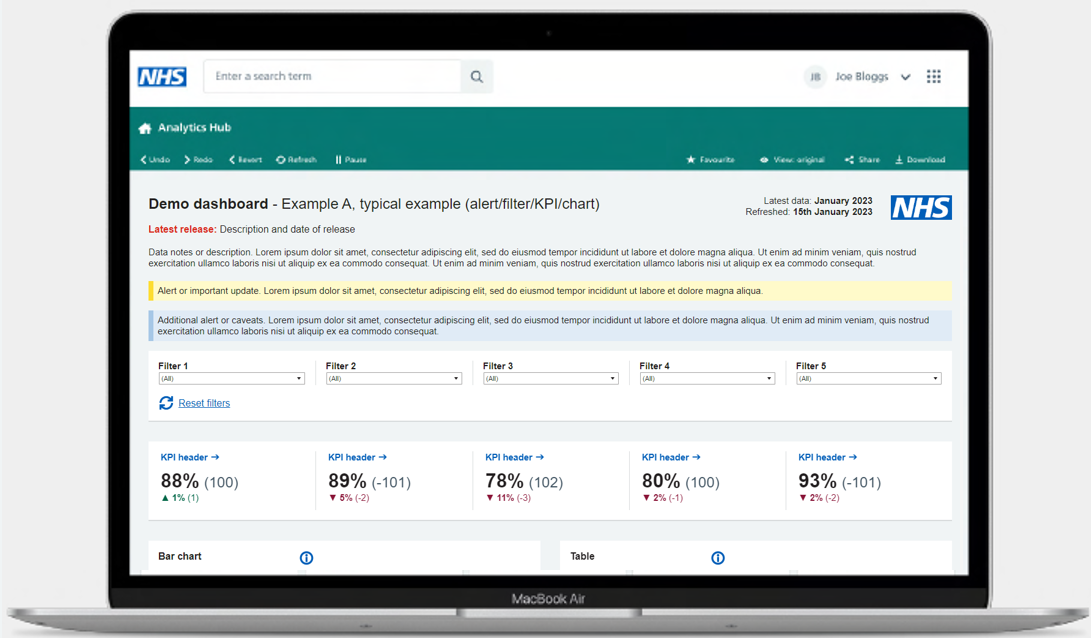
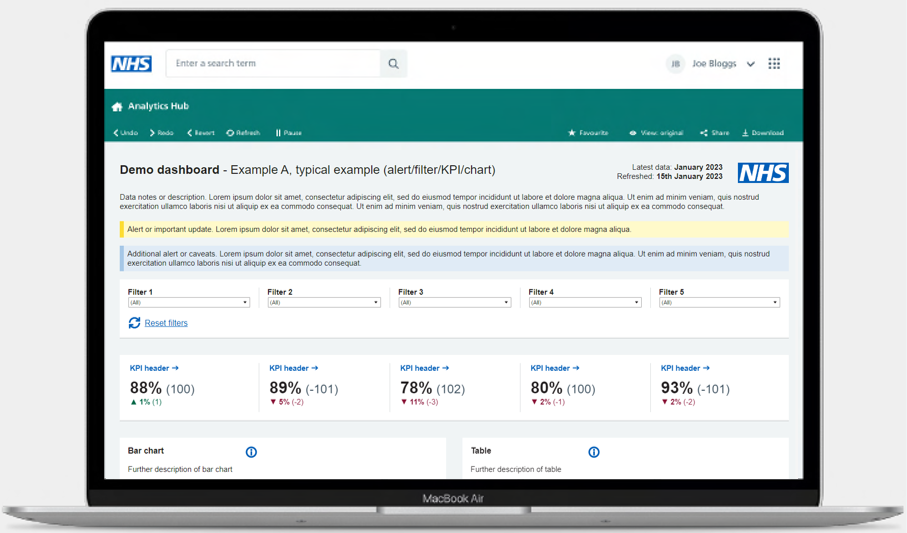
Image updates and typograhpy table changes

Changed region(s): [[0.0, 0.0, 1.0, 1.0]]

diff --git a/overrides/home.html b/overrides/home.html
@@ -170,7 +170,7 @@
       <div class="hero-image">
         <img
           id="hero-img"
-          src="images/nhs-tableau-templates.png"
+          src="images/NHS_tableau_templates.png"
           draggable="false"
         />
       </div>

diff --git a/docs/dashboard_design/quick_summary.md b/docs/dashboard_design/quick_summary.md
@@ -35,7 +35,7 @@ Always place the NHS logo in the top right hand corner of your dashboard with a 
 
 For more information on how to implement the NHS logo in your dashboard, [click here](icons.md#nhs-logo).
 
-![NHS Logo](../../images/NHS_logo.png){ data-title="NHS logo" data-description=".custom-desc1" data-caption-position="left" data-gallery="icons"}
+![NHS Logo](images/NHS_logo.png){ data-title="NHS logo" data-description=".custom-desc1" data-caption-position="left" data-gallery="icons"}
 <div class="glightbox-desc custom-desc1">
 NHS Logo as shown in the NHS England dashboard templates
 </div>
@@ -52,7 +52,7 @@ For more information on what to include in your dashboard header, [click here](l
 
 ## Cover page or About page
 
-![About page](images/templates-about-page.png){ data-title="About page" data-description=".custom-desc1" data-caption-position="left" data-gallery="templates"}
+![About page](images/templates_about_page.png){ data-title="About page" data-description=".custom-desc1" data-caption-position="left" data-gallery="templates"}
 <div class="glightbox-desc custom-desc1">
 Screenshot of the About page from the NHS England Tableau Templates
 </div>
@@ -77,10 +77,11 @@ Here is a summary of the most important dashboard objects and their font specifi
 
 | **Objects**                  | **Font** | **Weight** | **Size**    | **Colour**     | **HEX**      | **Alignment** |
 |------------------------------|----------|------------|-------------|----------------|--------------|---------------|
-| Dashboard title              | Arial    | Bold       | 24px / 18pt | NHS Black      | <span class="inline-container-pill" style="--colour: #212B32; background-color: white"><span class="inline-colour-square" style="--colour: #212B32; height: 15px; width: 15px""></span>#212B32</span>       | Left          |
-| Chart heading / Card heading                | Arial    | Bold       | 16px / 12pt | NHS Black      | <span class="inline-container-pill" style="--colour: #212B32; background-color: white"><span class="inline-colour-square" style="--colour: #212B32; height: 15px; width: 15px""></span>#212B32</span>       | Left          |
-| Filter title                 | Arial    | Regular    | 15px / 11pt | NHS Grey 1     | <span class="inline-container-pill" style="--colour: #4C6272; background-color: white"><span class="inline-colour-square" style="--colour: #4C6272; height: 15px; width: 15px"></span>#4C6272</span>       | Left          |
-| Description / Paragraph      | Arial    | Regular    | 15px / 11pt | NHS Grey 1     | <span class="inline-container-pill" style="--colour: #4C6272; background-color: white"><span class="inline-colour-square" style="--colour: #4C6272; height: 15px; width: 15px""></span>#4C6272</span>       | Left          |
+| Dashboard title              | Arial    | Bold       | 18pt / 24px | NHS Black      | <span class="inline-container-pill" style="--colour: #212B32; background-color: white"><span class="inline-colour-square" style="--colour: #212B32; height: 15px; width: 15px""></span>#212B32</span>       | Left          |
+| Chart / card heading                | Arial    | Bold       | 12pt / 16px | NHS Black      | <span class="inline-container-pill" style="--colour: #212B32; background-color: white"><span class="inline-colour-square" style="--colour: #212B32; height: 15px; width: 15px""></span>#212B32</span>       | Left          |
+| Filter title                 | Arial    | Bold    | 11pt / 15px | NHS Black     | <span class="inline-container-pill" style="--colour: #212B32; background-color: white"><span class="inline-colour-square" style="--colour: #212B32; height: 15px; width: 15px"></span>#212B32</span>       | Left          |
+| Description / paragraph      | Arial    | Regular    | 11pt / 15px | NHS Black     | <span class="inline-container-pill" style="--colour: #212B32; background-color: white"><span class="inline-colour-square" style="--colour: #212B32; height: 15px; width: 15px""></span>#212B32</span>       | Left          |
+
 
 To see the full font specification, please [click here](typography.md#font-specification).
 

diff --git a/docs/dashboard_design/typography.md b/docs/dashboard_design/typography.md
@@ -110,16 +110,17 @@ Here is a summary of the most important dashboard objects and their font specifi
 
 
 
+
 ### Tables
 
 ![Tables](images/typography_tables.png "Typography for tables")
 
-| **Objects**                  | **Font** | **Weight** | **Size**    | **Colour**     | **HEX**      | **Alignment** |
+| **Objects**                  | <div align="right">**Font**</div>  | <div align="right">**Weight**</div>  | <div align="right">**Size**</div>     | <div align="right">**Colour**</div>     | <div align="right">**HEX**</div>      | <div align="right">**Alignment**</div>|
 |------------------------------|----------|------------|-------------|----------------|--------------|---------------|
 | Heading                | Arial    | Bold       | 12pt / 16px  | NHS Black      | <span class="inline-container-pill" style="--colour: #212B32; background-color: white"><span class="inline-colour-square" style="--colour: #212B32; height: 15px; width: 15px""></span>#212B32</span>       | Left          |
 | Description            | Arial    | Regular    | 11pt / 15px | NHS Black     | <span class="inline-container-pill" style="--colour: #212B32; background-color: white"><span class="inline-colour-square" style="--colour: #212B32; height: 15px; width: 15px"></span>#212B32</span>       | Left          |
-| Column heading         | Arial    | Bold       | 11pt / 15px | NHS Black     | <span class="inline-container-pill" style="--colour: #212B32; background-color: white"><span class="inline-colour-square" style="--colour: #212B32; height: 15px; width: 15px"></span>#212B32</span>       | Left          |
-| Column sub-heading     | Arial    | Bold       | 11pt / 15px  | NHS Black     | <span class="inline-container-pill" style="--colour: #212B32; background-color: white"><span class="inline-colour-square" style="--colour: #212B32; height: 15px; width: 15px"></span>#212B32</span>       | Left          |
+| Column heading         | Arial    | Bold       | 11pt / 15px | NHS Black     | <span class="inline-container-pill" style="--colour: #212B32; background-color: white"><span class="inline-colour-square" style="--colour: #212B32; height: 15px; width: 15px"></span>#212B32</span>       | Right (the exception being the first column category title which is left aligned)          |
+| Column sub-heading     | Arial    | Bold       | 11pt / 15px  | NHS Black     | <span class="inline-container-pill" style="--colour: #212B32; background-color: white"><span class="inline-colour-square" style="--colour: #212B32; height: 15px; width: 15px"></span>#212B32</span>       | Right (the exception being the first column category title which is left aligned          |
 | Row heading            | Arial    | Bold       | 11pt / 15px  | NHS Black     | <span class="inline-container-pill" style="--colour: #212B32; background-color: white"><span class="inline-colour-square" style="--colour: #212B32; height: 15px; width: 15px"></span>#212B32</span>       | Left          |
 | Body / rows            | Arial    | Regular    | 11pt / 15px  | NHS Black     | <span class="inline-container-pill" style="--colour: #212B32; background-color: white"><span class="inline-colour-square" style="--colour: #212B32; height: 15px; width: 15px"></span>#212B32</span>       | Left          |
 

diff --git a/docs/dashboard_design/tables.md b/docs/dashboard_design/tables.md
@@ -10,7 +10,9 @@ Always assess the information you are working with and display it in the cleares
 
 ???- tip "Alignment"
     - [x] Right align column headings and the numbers in the column (the exception being the first column category title which is left aligned)
+    - [x] Right align numbers & figures to better highlight the difference in values at the same level of precision.
     - [ ] Don't use centred of variable alignments. Right align to better highlight the difference in values at the same level of precision.
+    - [x] Left align text in text tables to allow ease of reading.
 
 ???- tip "Date formats"
     - [x] Use "FY 2017/18" format for financial year. You can bring this from the date dimension during data preparation/

diff --git a/docs/dashboard_design/information.md b/docs/dashboard_design/information.md
@@ -19,7 +19,7 @@ For the user looking at your dashboard, context is everything. Information and m
 
 Example information page from the tableau templates:
 
-![Information / about page](images/information_page.png){ data-title="Information / about page" data-description=".custom-desc1" data-caption-position="left" data-gallery="information"}
+![Information / about page](images/templates_about_page.png){ data-title="Information / about page" data-description=".custom-desc1" data-caption-position="left" data-gallery="information"}
 <div class="glightbox-desc custom-desc1">
 Example of an Information / About page
 </div>

diff --git a/docs/dashboard_design/icons.md b/docs/dashboard_design/icons.md
@@ -21,7 +21,7 @@ The NHS logo should always be used with the background colour as NHS blue. For d
 
 **Example in practice**
 
-![NHS Logo](../../images/NHS_logo.png){ data-title="NHS logo" data-description=".custom-desc1" data-caption-position="left" data-gallery="icons"}
+![NHS Logo](images/NHS_logo.png){ data-title="NHS logo" data-description=".custom-desc1" data-caption-position="left" data-gallery="icons"}
 <div class="glightbox-desc custom-desc1">
 NHS Logo as shown in the NHS England dashboard templates
 </div>

diff --git a/docs/dashboard_design/tooltips.md b/docs/dashboard_design/tooltips.md
@@ -23,7 +23,7 @@ If an acronym needs to be included in the product title, ensure it is also writt
 ![Example of a tooltip without a heading](images/regular-tooltip.png "Example of a tooltip without a heading")
 
 ### With a heading
-![Example of a tooltip with a heading](images/tooltip-example.png "Example of a tooltip with a heading")
+![Example of a tooltip with a heading](images/tooltip_example.png "Example of a tooltip with a heading")
 
 ### Visualisations within a tooltip
 Example 1<br><br>
